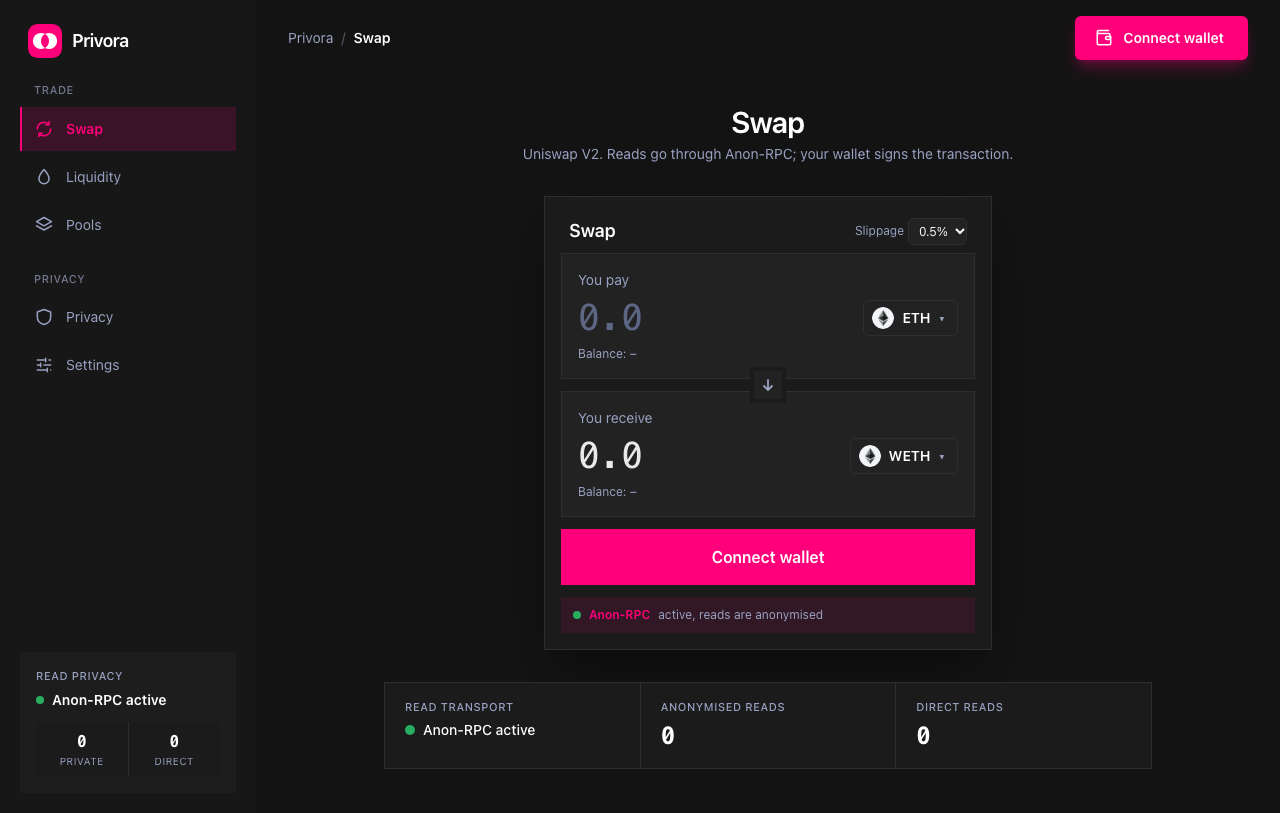
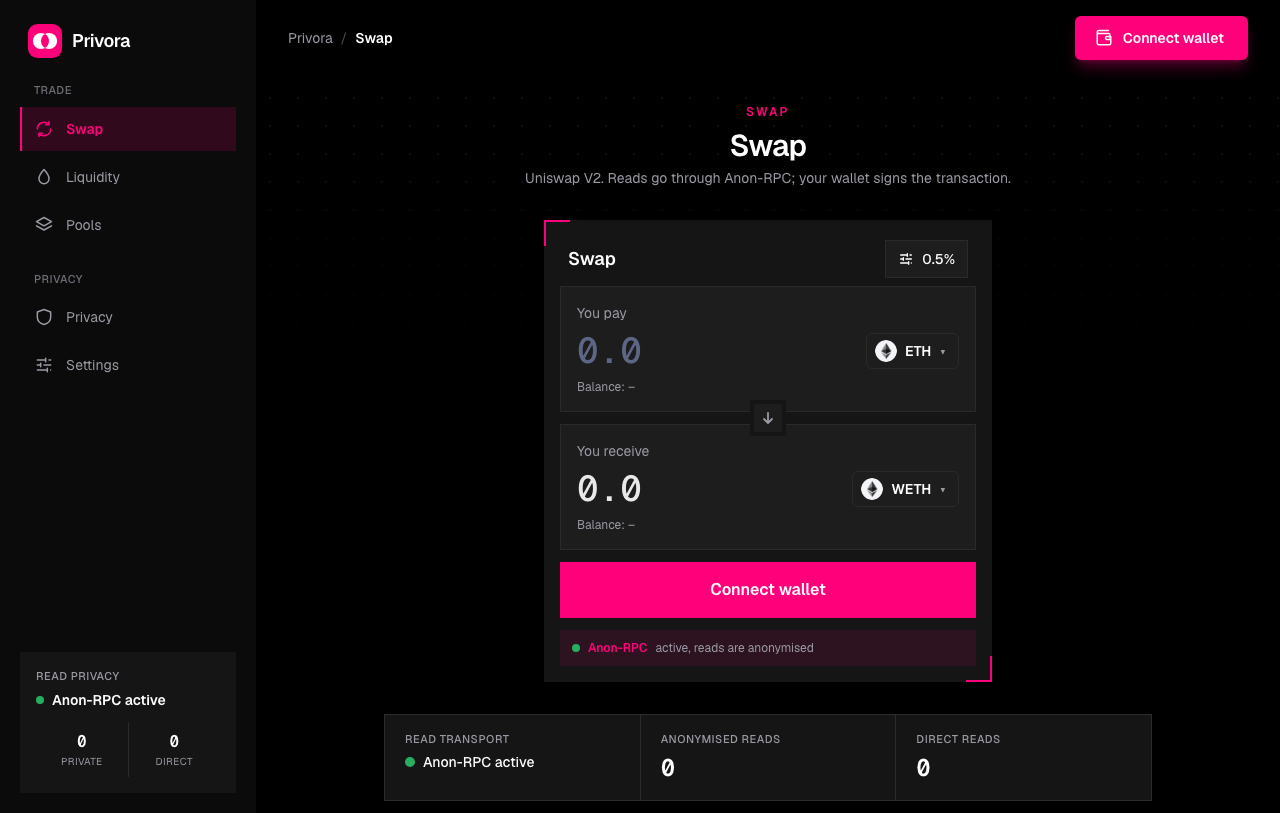
docs, tests: README and screenshots for the new design, hackathon submission text, e2e selectors, raw CDP access and screenshot script updates

diff --git a/README.md b/README.md
@@ -16,7 +16,7 @@ Uniswap V2 with every Ethereum read routed through [Anon-RPC](https://github.com
 ![Tests](https://img.shields.io/badge/tests-unit%20%2B%20real--browser%20e2e-34d399)
 ![License](https://img.shields.io/badge/license-MIT-blue)
 
-<img src="docs/images/home.png" alt="Privora swap interface" width="880" />
+<img src="docs/images/home.png" alt="Privora landing page" width="880" />
 
 </div>
 
@@ -146,9 +146,11 @@ sequenceDiagram
 | Network list | `src/lib/anon-rpc/networks.ts` | `nox` (default), `tor-js`, `nym`; blocks the non-anonymising `passthrough` worker |
 | Read client | `src/lib/ethereum/read-client.ts` | viem client whose transport is `rpcRead()`; per-session isolation keys |
 | Write path | `src/lib/ethereum/wallet.ts` | Wallet signing, a separate transport that is never routed through `rpcRead()` |
-| Privacy Center | `src/app/privacy/page.tsx` | Live worker status, counters and request log |
+| Privacy page | `src/app/(app)/privacy/page.tsx` | Live read path, worker status, counters and request log |
 
 Design rules we held to: no silent direct fallback, separate read and write transports, a fresh random isolation key per wallet session, and a log that cannot contain parameters, addresses or keys.
+
+When the worker will not start, `startWorker()` abandons a stuck boot after 30 seconds, retries it three times, then tries each other anonymising network once. After a full failure it schedules another attempt in the background (up to 12 times). `bootOrder()` is unit-tested to guarantee that only anonymising networks are ever failover targets.
 
 
 
@@ -156,31 +158,37 @@ Design rules we held to: no silent direct fallback, separate read and write tran
 
 | Area | What you get |
 | --- | --- |
-| **Landing page** | Hero with an animated request-path illustration · how it works · "where each request goes" diagram · what changes for your IP · fail-safe design · FAQ. Square, minimal, custom SVG art |
-| **Dashboard** | Sidebar app shell (bottom tab bar on phones): Swap · Liquidity · Pools · Privacy · Settings, with a live read-privacy status card |
-| **Swap** | Token picker with real logos, popular-token chips and onchain address lookup · router quote (direct or via WETH) · price impact · minimum received · 0.3% fee · exact-amount approvals (never unlimited) · ETH↔token and token↔token swaps · Half / Max |
+| **Landing page** | Black, square, minimal: a cursor-reactive dot-grid hero, four feature cards with corner brackets, an animated "same request, with and without Privora" diagram, a profile that builds itself to show what an RPC provider can assemble, a four-step flow, the four architecture layers with the real Uniswap V2 contract addresses, a "protects / does not protect" section and an FAQ |
+| **Dashboard** | Sidebar app shell (bottom tab bar on phones) in the same style: Swap · Liquidity · Pools · Privacy · Settings, a dot-grid backdrop, pink corner brackets on the main cards and a live read-privacy status card |
+| **Swap** | Token picker with real logos, popular-token chips and onchain address lookup · router quote (direct or via WETH) · price impact · minimum received · 0.3% fee · exact-amount approvals (never unlimited) · ETH↔token and token↔token swaps · Half / Max · slippage popover with presets and a custom value |
 | **Fee-on-transfer tokens** | Transactions are simulated first; taxed tokens automatically use the router's `SupportingFeeOnTransferTokens` variants. Doomed transactions never reach your wallet |
 | **Liquidity** | Add (new or existing pool, auto-paired amounts) · remove 25/50/75/100% · LP position and pool share · LP approval |
 | **Pools** | **Featured pools** for real tokens (USDC, LINK, DAI, USDT, UNI) · newest factory pairs · smart search (symbol, name, token or pool address, optional second token) · live reserves, price, LP supply · token icons · deep links into Swap / Add liquidity |
-| **Privacy Center** | Live read-path diagram · worker status · per-transport counters · average latency · requests by method · filterable request log with Export JSON · "Kill worker" fail-closed demo · what is / isn't anonymised |
+| **Privacy page** | Live read-path diagram · worker status · per-transport counters · average latency · requests by method · filterable request log with Export JSON · "Kill worker" fail-closed demo · what is / isn't anonymised |
 | **Settings** | Slippage presets and custom value, deadline, a worked example, and the built-in safety defaults |
-| **Resilience** | Bounded concurrency, retries and worker self-heal for flaky mixnet exits — always back through Anon-RPC, never direct |
+| **Resilience** | Bounded concurrency, retries and worker self-heal for flaky mixnet exits. A 30-second start-up watchdog abandons a stuck worker, retries it, then fails over between anonymising networks (nox, tor-js, Nym). After a full failure the app keeps retrying in the background, so it recovers without a click. Receipts are polled with one small request every few seconds instead of viem's heavy default polling. Always back through Anon-RPC, never direct |
 
 ## Screenshots
 
-| Landing page | Swap with a live quote |
+| Landing page | How it works |
 | --- | --- |
-| <img src="docs/images/home.png" alt="Privora landing page" /> | <img src="docs/images/swap-quote.png" alt="Dashboard with sidebar and a live Uniswap V2 quote" /> |
+| <img src="docs/images/home.png" alt="Landing page hero" /> | <img src="docs/images/how.png" alt="Four feature cards with animated illustrations" /> |
 
-| Privacy Center (live data) | Pools |
+| The same request, with and without Privora | The problem: a profile builds itself |
 | --- | --- |
-| <img src="docs/images/privacy-center.png" alt="Privacy Center with live read path, counters, latency and request log" /> | <img src="docs/images/pools.png" alt="Pool explorer with token icons, prices and reserves" /> |
+| <img src="docs/images/request.png" alt="Animated diagram of a normal request and a Privora request through the mixnet" /> | <img src="docs/images/problem.png" alt="What an RPC provider can assemble from lookups alone" /> |
 
-| How a request travels | Liquidity | Settings |
+| Swap with a live quote | Privacy page (live data) |
+| --- | --- |
+| <img src="docs/images/swap-quote.png" alt="Dashboard with sidebar and a live Uniswap V2 quote" /> | <img src="docs/images/privacy-center.png" alt="Privacy page with the live read path, counters and request log" /> |
+
+| Pools | Liquidity | Settings |
 | --- | --- | --- |
-| <img src="docs/images/flow.png" alt="Read path through Anon-RPC and write path through the wallet" /> | <img src="docs/images/liquidity.png" alt="Add and remove liquidity" /> | <img src="docs/images/settings.png" alt="Slippage and deadline settings" /> |
+| <img src="docs/images/pools.png" alt="Pool explorer with featured pools" /> | <img src="docs/images/liquidity.png" alt="Add and remove liquidity" /> | <img src="docs/images/settings.png" alt="Slippage and deadline settings" /> |
 
-<details><summary>Mobile</summary>
+<details><summary>Architecture section and mobile</summary>
+
+<img src="docs/images/architecture.png" alt="Architecture layers and Uniswap V2 contract addresses" width="640" />
 
 <img src="docs/images/mobile.png" alt="Landing page on mobile" width="260" /> <img src="docs/images/mobile-app.png" alt="Dashboard on mobile with a bottom tab bar" width="260" />
 
@@ -188,14 +196,19 @@ Design rules we held to: no silent direct fallback, separate read and write tran
 
 ## Demo
 
-A 2 to 3 minute walkthrough (full script: [docs/DEMO_SCRIPT.md](docs/DEMO_SCRIPT.md)):
+A 3 to 3.5 minute walkthrough (the older, shorter script is in [docs/DEMO_SCRIPT.md](docs/DEMO_SCRIPT.md)):
 
-1. **The problem (20s).** On the landing page: a normal dapp sends every balance and quote read from your IP to an RPC company. Point at the "what changes for your IP" panels.
-2. **Launch App (20s).** Click *Launch App*. The sidebar card shows the worker starting, then "Anon-RPC active". Reads only begin once it is ready.
-3. **Swap (40s).** Connect a wallet on Sepolia, pick a real token such as USDC, enter an amount, and show the live quote, price impact and minimum received (the quote source is the Uniswap V2 router, onchain). Approve for the exact amount, then swap.
-4. **Privacy (30s).** Show the private-read counter going up while **Direct reads stay at 0**, the live read path and the request log (method, route, time, no parameters).
-5. **Fail-closed (30s).** Click **Kill worker**. Reads fail with a visible message, and the direct counter does not move. Restart the worker to recover.
-6. **Honest close (10s).** Transactions are still public onchain. Privora anonymises the reads that come before them.
+1. **The hook (15s).** On the landing page: a normal dapp tells an RPC provider who you are with every balance and quote read. The hero dots follow your cursor.
+2. **The problem (15s).** Scroll to *The problem*: a profile of you builds itself from lookups alone.
+3. **The idea (20s).** Scroll to *The request*: the same request twice. A normal dapp carries your identity to the provider; Privora strips it at the shield and mixes it through a mixnet.
+4. **Open the app (15s).** Click *Open app*. The sidebar card shows the worker starting, then "Anon-RPC active". Connect a wallet on Sepolia.
+5. **Quote and swap (45s).** Pick a real token such as USDC, enter an amount and show the live quote, price impact and minimum received (source: the Uniswap V2 router, onchain). Swap; your wallet signs and the receipt is polled through Anon-RPC.
+6. **Privacy page (20s).** Private reads climb while **Direct reads stay at 0**; the log shows method, route and time, never parameters.
+7. **Fail closed (20s).** Click **Kill worker**: reads stop with a visible message and the direct counter does not move. Restart the worker to recover.
+8. **Pools and architecture (25s).** Featured pools for USDC, LINK, DAI, USDT and UNI, then the architecture section: one function, `rpcRead()`, is the only path to the network.
+9. **Honest close (10s).** Transactions are still public onchain. Privora anonymises the reads that come before them.
+
+The pitch video itself is built with scripts under `video/`, which is git-ignored (large files, never committed).
 
 ## Quick start
 
@@ -240,9 +253,9 @@ Contract addresses are centralised in [`src/lib/ethereum/chains.ts`](src/lib/eth
 | `npm run typecheck` | Strict TypeScript |
 | `npm run build` | Production build |
 | `npm run e2e` | **Real headless Chrome, real Anon-RPC network:** worker boots and verifies · pools and a router quote are read through Anon-RPC · direct reads stay at 0 and the page makes no request to the RPC host after worker setup · Standard mode is labelled direct · killed worker fails closed with no fallback |
-| `npm run e2e:ui` | **Real headless Chrome:** the landing page and every dashboard page render with no console errors and no horizontal overflow at 1280px and 390px; Launch App, sidebar, mode toggle, settings persistence and the token selector work |
+| `npm run e2e:ui` | **Real headless Chrome:** the landing page and every dashboard page render with no console errors and no horizontal overflow at 1280px and 390px; Open app, sidebar, mode toggle, settings persistence and the token selector work |
 | `npm run e2e:tx` | **Real UI on a local Sepolia fork (anvil):** swap, exact-amount approve, taxed-token sell, add and remove liquidity — balances/allowances/LP verified onchain |
-| `npm run e2e:sepolia` | **Real Sepolia, real transactions:** the app in Anon-RPC mode while a throwaway test wallet swaps, approves and sells; the Privacy Center must show direct reads = 0 (needs `PRIVORA_TEST_WALLET`, see the script header) |
+| `npm run e2e:sepolia` | **Real Sepolia, real transactions:** the app in Anon-RPC mode while a throwaway test wallet swaps, approves and sells; the Privacy page must show direct reads = 0. It navigates inside the app so the worker is not restarted (needs `PRIVORA_TEST_WALLET`, see the script header) |
 | `npm run shots` | Regenerates the README screenshots from the running build |
 
 `npm run e2e` needs a running production server (`npm run build && npm start`) and Google Chrome (override with `CHROME=/path`).
@@ -254,7 +267,7 @@ Contract addresses are centralised in [`src/lib/ethereum/chains.ts`](src/lib/eth
 src/
   app/(marketing)/        Landing page at /
   app/(app)/              Dashboard (sidebar): /swap · /liquidity · /pools · /privacy · /settings
-  components/             AppShell (sidebar), MarketingNav, WalletButton, ModeToggle, TokenIcon, TokenSelect, PoolCard, art (SVG), swap/, liquidity/ …
+  components/             AppShell (sidebar), MarketingNav, CursorWave (landing background), Brackets, ProfileBuild, art (animated SVG), WalletButton, ModeToggle, TokenIcon, TokenSelect, PoolCard, swap/, liquidity/ …
   lib/
     anon-rpc/             manager.ts (worker lifecycle · rpcRead choke point · request log) · networks.ts
     ethereum/             chains.ts · read-client.ts (viem on rpcRead) · wallet.ts (write path) · tx.ts
@@ -277,15 +290,15 @@ docs/                     audit · Anon-RPC integration · demo script · test r
 
 ## Limitations
 
-- Public Anon-RPC networks are experimental: seconds of latency per request, and exits can be unavailable (Nox has few TLS-capable exits). Privora retries and self-heals but can still fail — visibly, with Retry.
-- Writes and the wallet's own RPC are **not** anonymised; the one-time worker bootstrap read and the page load are direct. Both are shown in the Privacy Center.
-- Wallet-signed flows are tested with a stub wallet, not a real wallet extension: on a local Sepolia fork (swap, approve, taxed-token sell, add and remove liquidity) and on real Sepolia (swap and exact-amount approve + sell of USDC through Anon-RPC). ERC-20↔ERC-20 swaps are implemented but not covered by a transaction test.
+- Public Anon-RPC networks are experimental: seconds of latency per request, and exits can be unavailable for minutes at a time (Nox has few TLS-capable exits). Privora retries, fails over between anonymising networks and keeps retrying in the background, but it can still be down: visibly, with Retry, and never silently falling back to a direct connection.
+- Writes and the wallet's own RPC are **not** anonymised; the one-time worker bootstrap read and the page load are direct. Both are shown on the Privacy page.
+- Wallet-signed flows are tested with a stub wallet, not a real wallet extension: on a local Sepolia fork (swap, approve, taxed-token sell, add and remove liquidity) and on real Sepolia (a swap, and an exact-amount approve plus sell, of USDC through Anon-RPC). Add and remove liquidity were verified on the fork; the real-chain liquidity run has not completed end to end. ERC-20↔ERC-20 swaps are implemented but not covered by a transaction test.
 - Multi-hop routing is limited to direct and via-WETH.
 - Sepolia Uniswap V2 pools are test pools with arbitrary liquidity.
 
 ## Documentation
 
-[Project audit](docs/PROJECT_AUDIT.md) · [Anon-RPC integration](docs/ANON_RPC_INTEGRATION.md) · [Demo script (2–3 min)](docs/DEMO_SCRIPT.md) · [Test report](docs/TEST_REPORT.md)
+[Hackathon submission text](docs/SUBMISSION.md) · [Project audit](docs/PROJECT_AUDIT.md) · [Anon-RPC integration](docs/ANON_RPC_INTEGRATION.md) · [Earlier demo script](docs/DEMO_SCRIPT.md) · [Test report](docs/TEST_REPORT.md)
 
 ## Licence
 

diff --git a/docs/SUBMISSION.md b/docs/SUBMISSION.md
@@ -1,0 +1,32 @@
+# Hackathon submission text
+
+## Short description
+
+Your swaps are public. Your queries don't have to be. Uniswap V2 with every read via Anon-RPC.
+
+## Description
+
+Your swaps are public. Your queries don't have to be. Uniswap V2 with every read via Anon-RPC.
+
+DESCRIPTION
+Your swaps are public onchain. Your lookups don't have to be. Before every trade, a Uniswap app asks an RPC provider for your balances, allowances, pool reserves and prices. Each request carries your IP address and names the wallet and tokens you care about, so one company can link who you are to what you own and what you watch, before you ever sign anything.
+
+Privora is a Uniswap V2 interface that removes that link. Every read is sent through Anon-RPC, the anonymous RPC transport from the Ethereum ecosystem, so the provider receives your question from a mixnet exit and cannot tell who asked. Trading is unchanged: the real Uniswap V2 router and pair contracts, your own wallet signs every transaction, approvals are for the exact amount, and nothing is custodial.
+
+The privacy is checkable, not a badge. Privora fails closed: if the privacy layer goes down, reads stop instead of quietly falling back to a normal RPC. A Privacy page shows every request, its route and its latency, with a direct-reads counter that stays at zero. You can even kill the worker and watch nothing leak. The app covers swap, add and remove liquidity, featured and newest pools, and settings.
+
+We are upfront about the limits: transactions and addresses are public onchain. Privora protects the lookups that come before them.
+
+## How it's made
+
+The big idea: privacy at the transport layer. Instead of inventing a new protocol, we put one choke point between the app and the network. Everything that reads Ethereum goes through a single function, rpcRead(), so privacy is enforced in one place and cannot be bypassed by accident.
+
+How the pieces fit: a Next.js 16 and TypeScript front end. viem does all Ethereum access through a custom transport built on rpcRead(), so every hook (balances, allowances, quotes, pools, receipts) is private by construction. The wallet is plain EIP-1193, and writes go through the user's own wallet on a separate path from reads.
+
+Partner technology, Anon-RPC: rpcRead() calls worker.fetch() on @anon-rpc/browser-harness 0.4.0, a hash-pinned worker in a sandboxed iframe that sends requests through a mixnet (Nox by default, tor-js and Nym supported). Each wallet session gets a fresh isolation key, so sessions are not linked. It gave us a real, verifiable anonymising transport instead of a privacy badge, and spared us from building our own anonymity layer. If no worker is ready, rpcRead() throws before touching the network: fail-closed, never a quiet fallback.
+
+Making a slow network usable: mixnet requests take seconds, so reads are batched with Multicall3 (a quote costs one request instead of several), queued with limited concurrency, and retried. A boot watchdog abandons a stuck worker and fails over between anonymising networks, never to a direct connection, and the app recovers on its own in the background. viem's default receipt polling overloaded the mixnet, so transactions are confirmed with one small request every few seconds.
+
+Hacks worth mentioning: fee-on-transfer tokens are found by simulating first and falling back to the SupportingFeeOnTransfer router functions, and the gas buffer came from replaying a failed transaction with cast. Token logos are bundled and unknown tokens get identicons made from their address, so the page never calls a logo CDN that could see the visitor's IP.
+
+How we know it works: a dependency-free Chrome DevTools driver runs real-browser tests, including one that reads the browser's own resource log and proves the page sends no request to the RPC host after worker setup. Wallet-signed flows run on an anvil Sepolia fork with an injected EIP-1193 stub, and real swaps ran on Sepolia.
